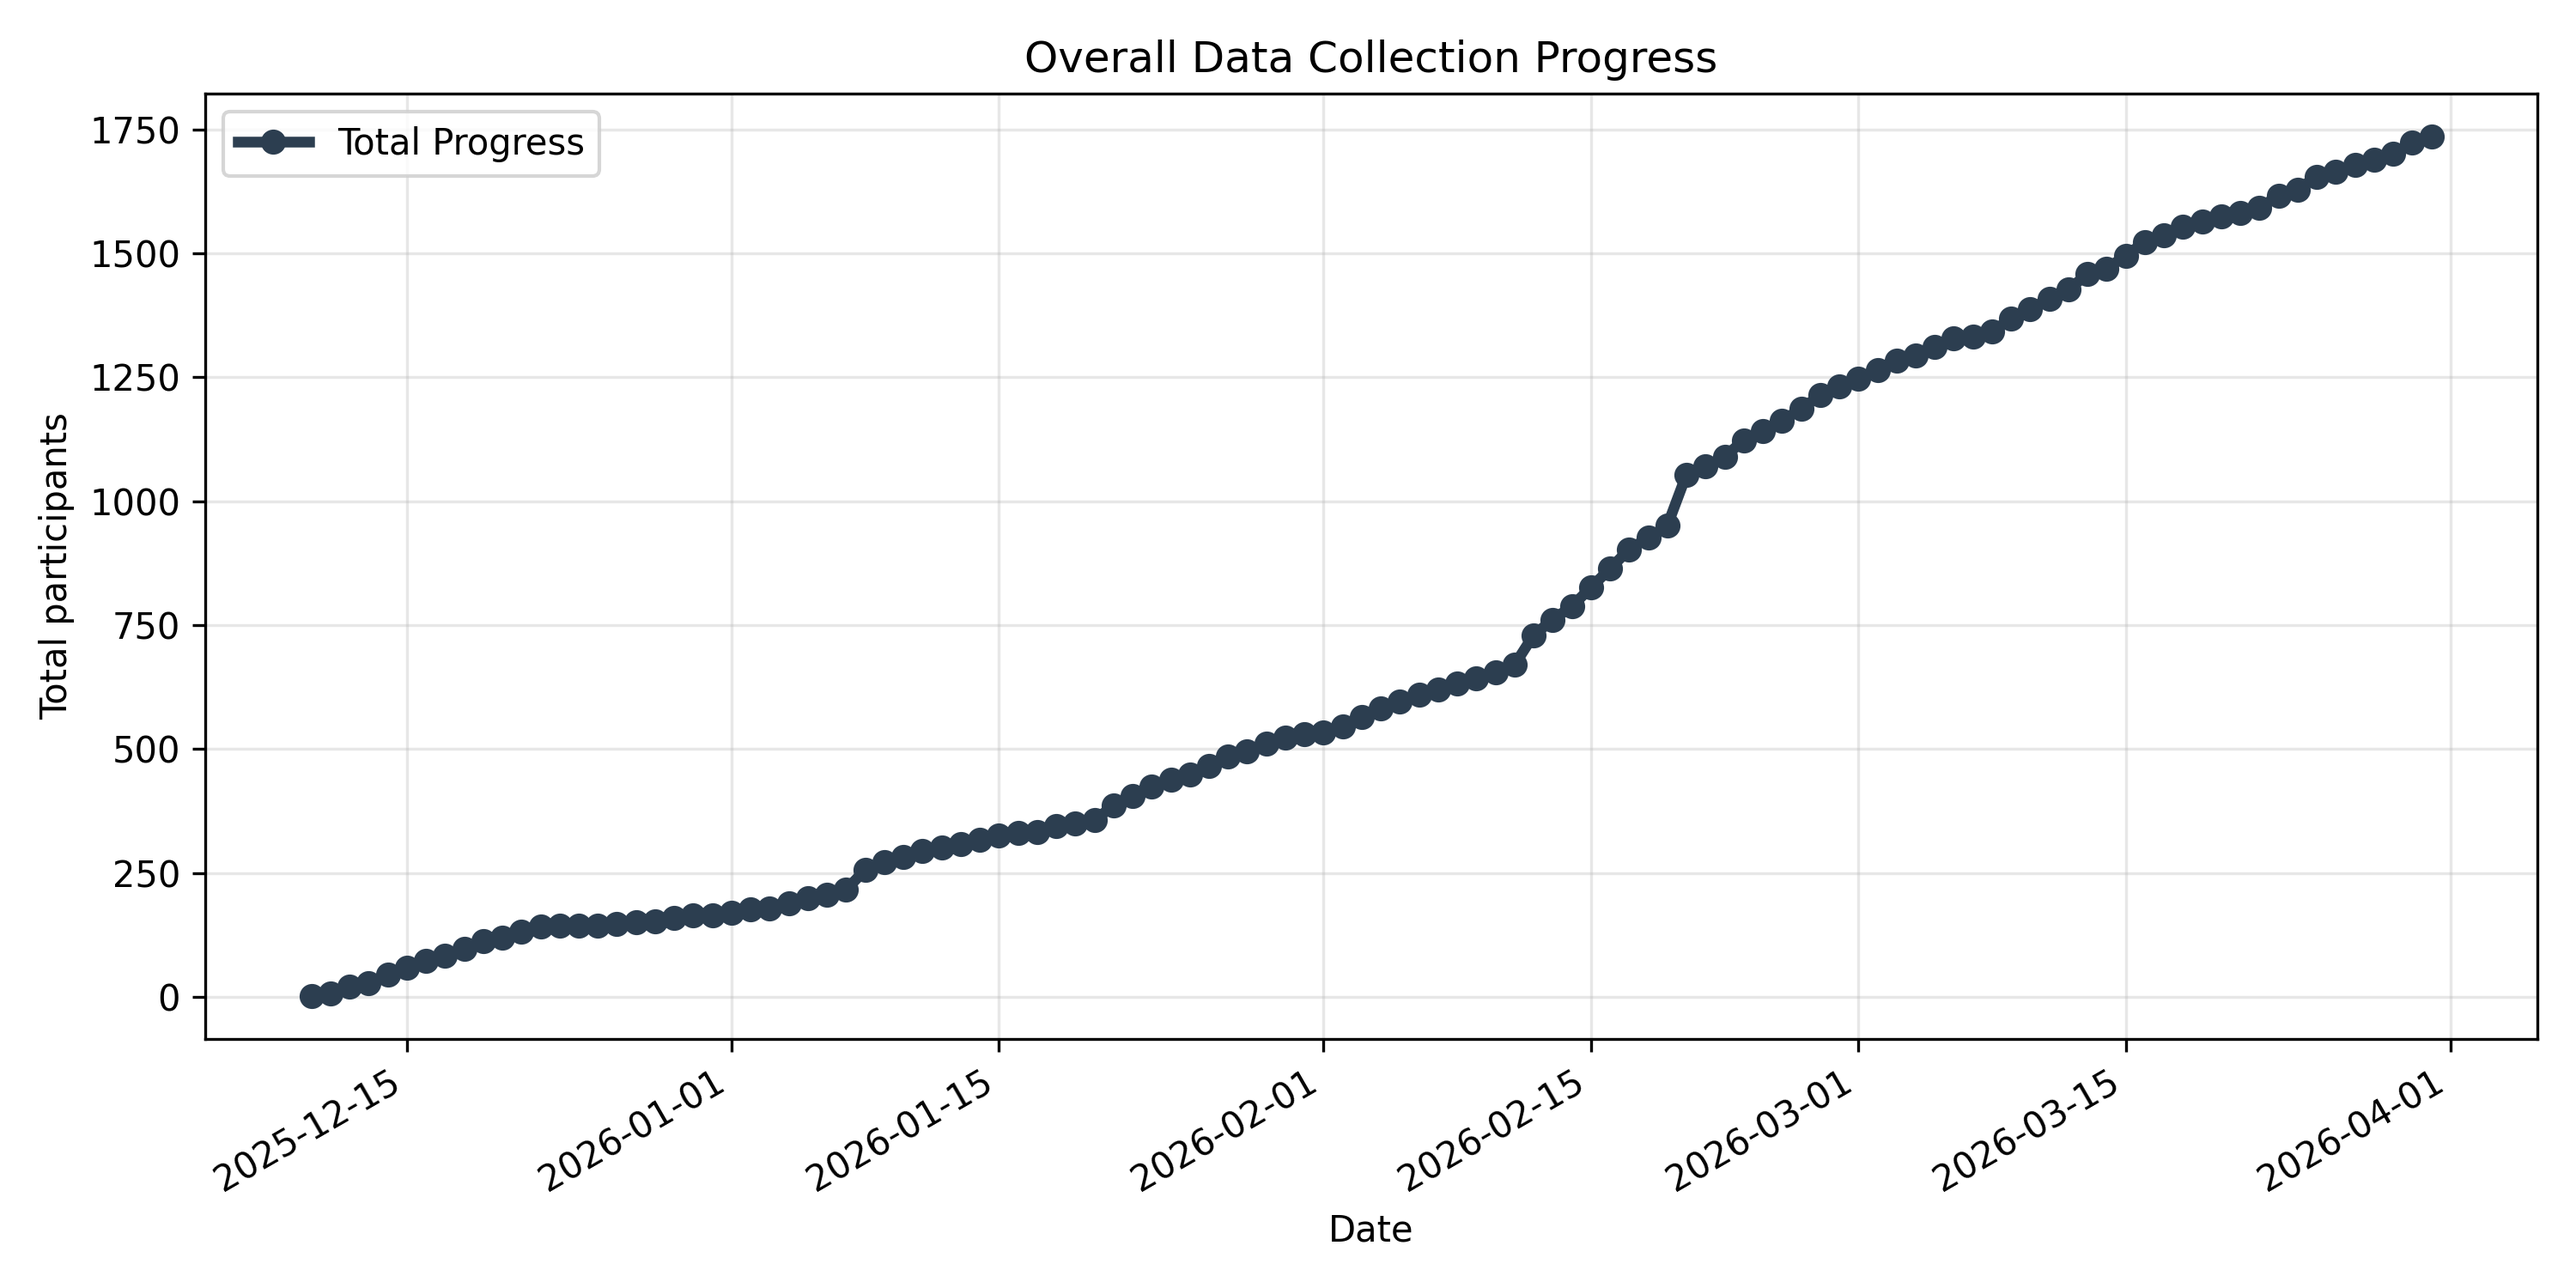
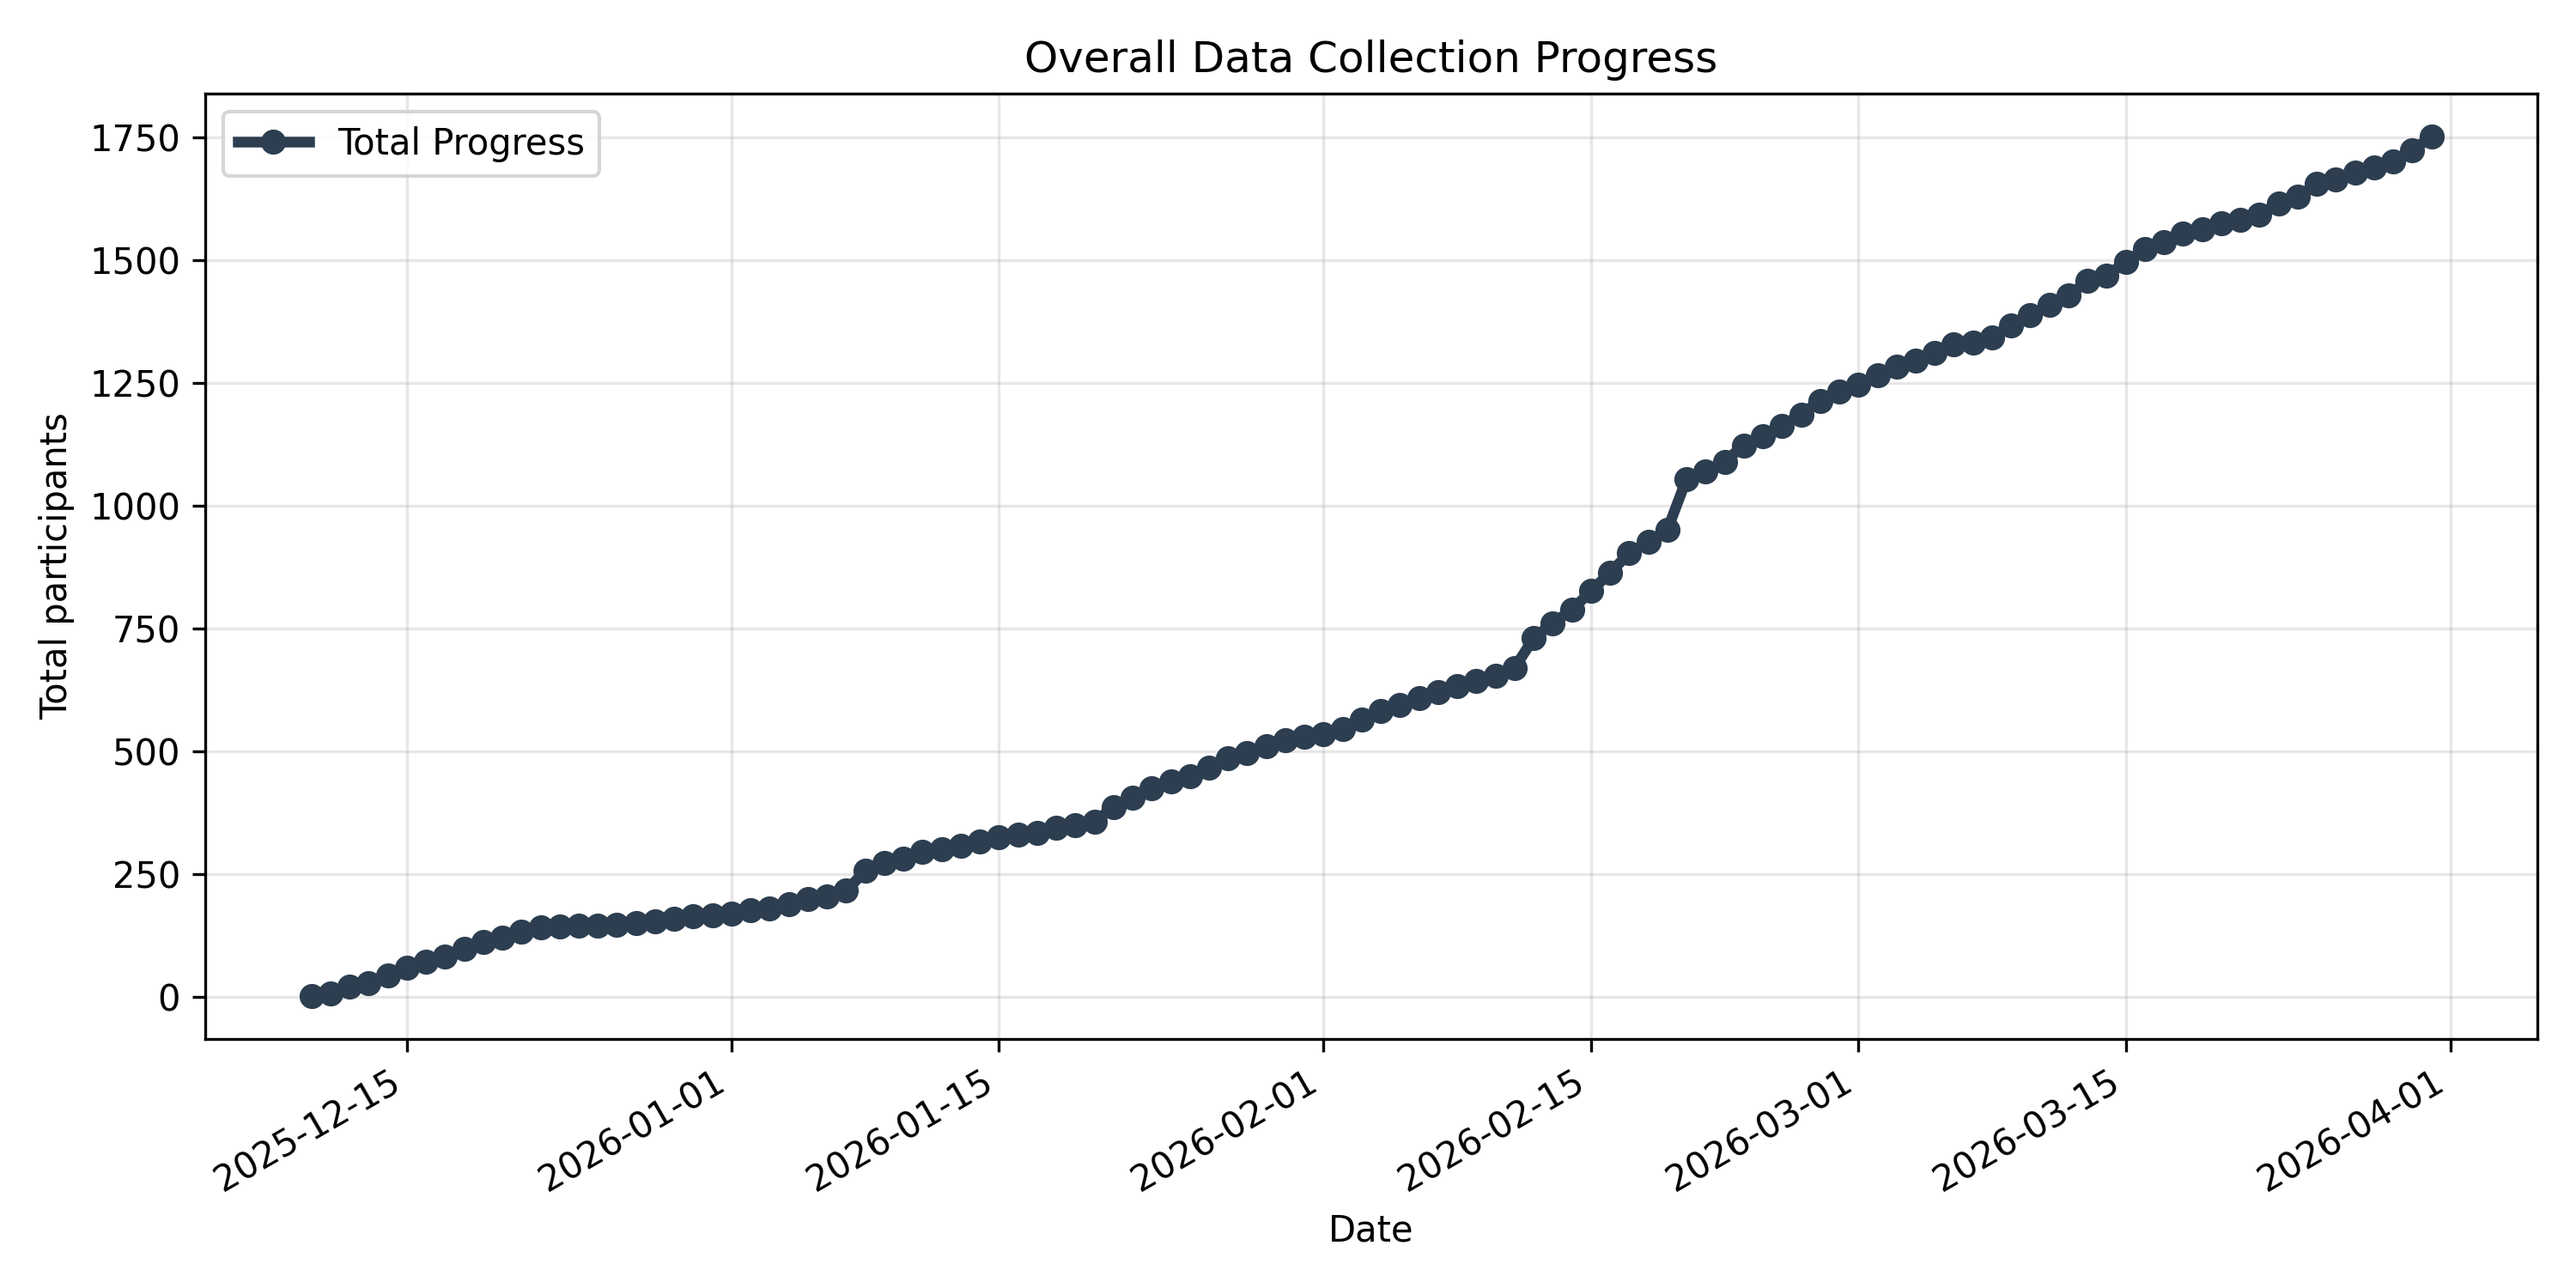
Update demo file counts [skip ci]

diff --git a/README.md b/README.md
@@ -10,11 +10,11 @@ The following output is updated automatically every 10 minutes using GitHub Acti
 
 ### Overall progress
 
-**Total data files saved across all labs:** 1736
+**Total data files saved across all labs:** 1752
 
 **Overall progress (Target: 2453 participants):**
 
-[█████████████████████░░░░░░░░░] 1736 / 2453 (70.8%)
+[█████████████████████░░░░░░░░░] 1752 / 2453 (71.4%)
 
 ### Table: Progress per lab
 
@@ -34,18 +34,18 @@ The following output is updated automatically every 10 minutes using GitHub Acti
 | Wuppertal | 65 | 2026-03-29 |
 | Aachen | 51 | 2026-01-18 |
 | Erfurt | 51 | 2026-03-31 |
-| Twente | 40 | 2026-03-19 |
+| Twente | 40 | 2026-03-31 |
 | Münster | 32 | 2026-03-20 |
 | Tübingen Not Sona | 29 | 2026-02-21 |
 | Dresden | 28 | 2026-02-07 |
 | Hildesheim | 25 | 2026-03-30 |
 | Potsdam Sona | 23 | 2026-03-30 |
 | Frankfurt Sona | 22 | 2026-03-25 |
+| Frankfurt Prolific | 20 | 2026-03-31 |
 | Bamberg | 17 | 2026-01-26 |
 | Ipu Sona | 16 | 2026-02-28 |
 | Göttingen | 14 | 2026-03-17 |
 | Trier | 13 | 2026-03-31 |
-| Frankfurt Prolific | 4 | 2026-03-31 |
 | Potsdam Sona Cogscience | 1 | 2026-03-28 |
 | IPN | 0 |  |
 | Ipu Prolific | 0 |  |
@@ -69,7 +69,7 @@ The following output is updated automatically every 10 minutes using GitHub Acti
 
 | Window | Start | End |  M(data/day) | Rank_1 | n_1 | Rank_2 | n_2 | Rank_3 | n_3 | Rank_4 | n_4 | Rank_5 | n_5 | n_Rest |
 |--------|-------|-----|----------------------|---|----|---|----|---|----|---|----|---|----|--------|
-| Since today 00:00 | 2026-03-31 | 2026-03-31 | 12.00 | IU | 3 | Trier | 3 | Frankfurt Prolific | 2 | Erfurt | 1 | FU | 1 | 2 |
+| Since today 00:00 | 2026-03-31 | 2026-03-31 | 28.00 | Frankfurt Prolific | 18 | IU | 3 | Trier | 3 | Erfurt | 1 | FU | 1 | 2 |
 | Last 3 days | 2026-03-28 | 2026-03-30 | 15.00 | IU | 11 | Erfurt | 8 | HU | 5 | FU | 4 | Mannheim Kognitive Psychologie | 4 | 13 |
 | Last 7 days | 2026-03-24 | 2026-03-30 | 15.43 | Hagen | 24 | IU | 24 | Erfurt | 17 | FU | 8 | HU | 7 | 28 |
 | Last 14 days | 2026-03-17 | 2026-03-30 | 14.36 | IU | 51 | Hagen | 49 | Hildesheim | 24 | Erfurt | 19 | HU | 12 | 46 |

diff --git a/demo_counts_table.md b/demo_counts_table.md
@@ -14,18 +14,18 @@
 | Wuppertal | 65 | 2026-03-29 |
 | Aachen | 51 | 2026-01-18 |
 | Erfurt | 51 | 2026-03-31 |
-| Twente | 40 | 2026-03-19 |
+| Twente | 40 | 2026-03-31 |
 | Münster | 32 | 2026-03-20 |
 | Tübingen Not Sona | 29 | 2026-02-21 |
 | Dresden | 28 | 2026-02-07 |
 | Hildesheim | 25 | 2026-03-30 |
 | Potsdam Sona | 23 | 2026-03-30 |
 | Frankfurt Sona | 22 | 2026-03-25 |
+| Frankfurt Prolific | 20 | 2026-03-31 |
 | Bamberg | 17 | 2026-01-26 |
 | Ipu Sona | 16 | 2026-02-28 |
 | Göttingen | 14 | 2026-03-17 |
 | Trier | 13 | 2026-03-31 |
-| Frankfurt Prolific | 4 | 2026-03-31 |
 | Potsdam Sona Cogscience | 1 | 2026-03-28 |
 | IPN | 0 |  |
 | Ipu Prolific | 0 |  |
